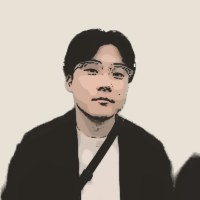
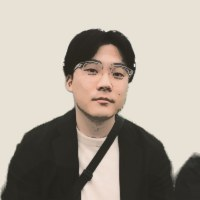
Portraits: blend more of the photo back into the illustration

diff --git a/index.html b/index.html
@@ -87,7 +87,7 @@
       <div class="rows">
         <article class="row person">
           <div class="row-title person-head">
-            <img class="portrait" src="img/arata-illust-200.jpg" srcset="img/arata-illust-200.jpg 1x, img/arata-illust-400.jpg 2x" alt="Illustrated portrait of Arata Nakatsuji" width="96" height="96" loading="lazy">
+            <img class="portrait" src="img/arata-illust-200.jpg?v=2" srcset="img/arata-illust-200.jpg?v=2 1x, img/arata-illust-400.jpg?v=2 2x" alt="Illustrated portrait of Arata Nakatsuji" width="96" height="96" loading="lazy">
             <p class="role">Chairman &amp; Founding Partner</p>
             <h3 class="person-name">Arata Nakatsuji</h3>
           </div>
@@ -105,7 +105,7 @@
         </article>
         <article class="row person">
           <div class="row-title person-head">
-            <img class="portrait" src="img/hide-illust-200.jpg" srcset="img/hide-illust-200.jpg 1x, img/hide-illust-400.jpg 2x" alt="Illustrated portrait of Hidehisa Morita" width="96" height="96" loading="lazy">
+            <img class="portrait" src="img/hide-illust-200.jpg?v=2" srcset="img/hide-illust-200.jpg?v=2 1x, img/hide-illust-400.jpg?v=2 2x" alt="Illustrated portrait of Hidehisa Morita" width="96" height="96" loading="lazy">
             <p class="role">Founding Partner</p>
             <h3 class="person-name">Hidehisa Morita</h3>
           </div>
@@ -124,7 +124,7 @@
         </article>
         <article class="row person">
           <div class="row-title person-head">
-            <img class="portrait" src="img/koki-illust-200.jpg" srcset="img/koki-illust-200.jpg 1x, img/koki-illust-400.jpg 2x" alt="Illustrated portrait of Koki Ito" width="96" height="96" loading="lazy">
+            <img class="portrait" src="img/koki-illust-200.jpg?v=2" srcset="img/koki-illust-200.jpg?v=2 1x, img/koki-illust-400.jpg?v=2 2x" alt="Illustrated portrait of Koki Ito" width="96" height="96" loading="lazy">
             <p class="role">Chief of Staff</p>
             <h3 class="person-name">Koki Ito</h3>
           </div>
